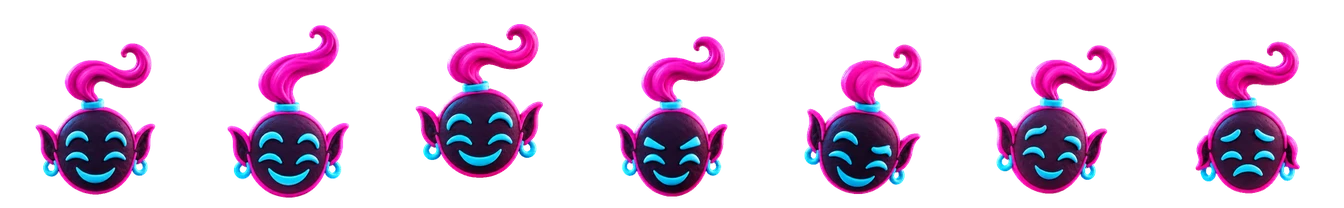
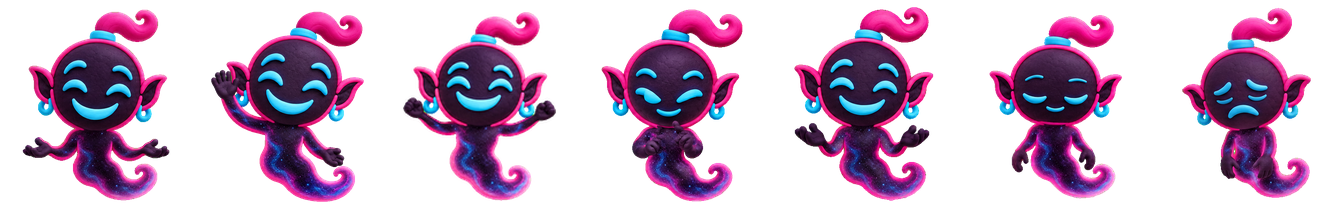
feat(id): the approved whole-body Genie, the letter's label on one line, a steady phone layout
The owner's two layout notes and the Genie swap, as one delta on the screens.

- Genie is the approved clay figure, whole body, in the same seven cells
  (192 x 208). The head-only strip is gone; no other Genie file is in the folder.
  The figure is drawn a little larger than Omni's head and in front of the card,
  so the tip of its tail ends over the card's edge; the bubble uses the empty
  sides of its cell.
- At 1440 the label over the WhatsApp message wrapped beside the code to scan.
  Beside the code it is now set a touch tighter and stays on one line; under
  480 px the letter goes under the code instead of squeezing beside it.
- At 390 the logo and the card were far apart in the short states, and the card
  moved up and down from one state to the next. On a phone the host and the card
  now start one short, fixed step under the logo; the step gives way first when a
  tall card needs the room. A wide window still centres them.
- Tests: the strip's digest and size and the folder's contents; in a browser, the
  label's single line at five widths, the fixed step across states, and the whole
  Genie in front of the card.

diff --git a/apps/id/test/pages.test.ts b/apps/id/test/pages.test.ts
@@ -21,7 +21,7 @@ import { Miniflare } from 'miniflare';
 import { createHash, randomUUID } from 'node:crypto';
 import { createServer } from 'node:net';
 import { existsSync } from 'node:fs';
-import { mkdir, mkdtemp, readFile, rm, writeFile } from 'node:fs/promises';
+import { mkdir, mkdtemp, readFile, readdir, rm, writeFile } from 'node:fs/promises';
 import { resolve } from 'node:path';
 import { clientSeedSQL } from '../scripts/client-seed';
 
@@ -83,6 +83,27 @@ describe('pages: files', () => {
   });
 
   // Without this the browser layers below skip in CI and nobody notices.
+  test('Genie is the approved whole figure, and no head-only Genie file is left', async () => {
+    const strip = await readFile(resolve('pages/assets/genie-faces.webp'));
[1 lines of base64/hex data omitted]
+    expect(createHash('sha256').update(strip).digest('hex')).toBe(approved);
+    // Seven cells of 192 x 208 side by side; a lossless WebP holds its size in its header.
+    expect(strip.toString('latin1', 0, 4) + strip.toString('latin1', 8, 16)).toBe('RIFFWEBPVP8L');
+    const bits = strip.readUInt32LE(21);
+    expect([(bits & 0x3fff) + 1, ((bits >> 14) & 0x3fff) + 1]).toEqual([7 * 192, 208]);
+    // The folder holds this one Genie file and nothing else that could be an older one.
+    expect((await readdir(resolve('pages/assets'))).sort()).toEqual([
+      'LICENSES.md', 'OFL-DMSans.txt', 'OFL-Manrope.txt', 'dm-sans-latin.woff2', 'genie-faces.webp', 'icon.png',
+      'manrope-latin.woff2', 'omni-faces.webp', 'wordmark.webp',
+    ]);
+    const notes = await read('assets/LICENSES.md');
+    expect(notes).toContain(`SHA-256 \`${approved}\``);
+    expect(notes).toContain('The earlier head-only Genie is retired and no file of it is left here.');
+    const css = await read('id.css');
+    expect(css).toContain('[data-who="genie"] .pet,[data-who="omni"] .pal{aspect-ratio:192/208;background-image:url("/assets/genie-faces.webp")}');
+    expect([...css.matchAll(/genie[\w-]*\.(?:webp|png|svg)/g)].map(match => match[0])).toEqual(['genie-faces.webp']);
+  });
+
   test('the CI job runs the browser tests', async () => {
     const workflow = await readFile(resolve('..', '..', '.github', 'workflows', 'ci.yml'), 'utf8');
     const job = workflow.slice(workflow.indexOf('\n  id:\n'), workflow.indexOf('\n  privacy:\n'));
@@ -1168,6 +1189,65 @@ describe('pages: every state', () => {
       await context.close();
     }
   }, 600000);
+
+  test('layout: the letter\'s label on one line beside the code, a fixed step under the logo on a phone, the whole Genie in front of the card', async ({ skip }) => {
+    if (!(await chromium())) return skip();
+    const { origin } = await world();
+    const named = (name: string) => scenes.find(scene => scene.name === name)!;
+    const host = `(() => {
+      const logo = document.querySelector('.brand').getBoundingClientRect(), scene = document.querySelector('#scene');
+      const pet = document.querySelector('#pet').getBoundingClientRect(), card = document.querySelector('#card').getBoundingClientRect();
+      const front = document.elementFromPoint(pet.left + pet.width / 2, card.top + 2);
+      return {
+        step: scene.getBoundingClientRect().top - logo.bottom, who: scene.dataset.who, art: getComputedStyle(document.querySelector('#pet')).backgroundImage,
+        pet: [Math.round(pet.width), Math.round(pet.height)], over: pet.bottom - card.top, clear: pet.top >= logo.bottom, front: front ? front.id : '',
+      };
+    })()`;
+    // A desk browser: the code to scan with the letter beside it, the label on one line; in
+    // a window too narrow for the pair, the letter goes under the code.
+    // No motion here: the host's breathing would change the sizes measured.
+    const desk = await browser.newContext({ viewport: { width: 1440, height: 900 }, reducedMotion: 'reduce' });
+    const waiting = await stage(desk, origin, named('sign-in-20-whatsapp-waiting-for-the-message'));
+    for (const [width, beside] of [[1440, true], [700, true], [480, true], [479, false], [390, false]] as const) {
+      await waiting.page.setViewportSize({ width, height: 900 });
+      const letter = await waiting.page.evaluate(`(() => {
+        const label = document.querySelector('.letter-label'), range = document.createRange(); range.selectNodeContents(label);
+        const code = document.querySelector('#qr').getBoundingClientRect(), box = document.querySelector('.letter').getBoundingClientRect();
+        return {
+          lines: new Set([...range.getClientRects()].map(rect => Math.round(rect.top))).size, shown: code.width >= 148,
+          beside: box.left >= code.right && box.top < code.bottom && box.bottom > code.top, under: box.top >= code.bottom,
+        };
+      })()`);
+      expect(letter, `the letter at ${width}`).toEqual({ lines: 1, shown: true, beside, under: !beside });
+    }
+    await waiting.page.close();
+    // There Genie is centred with the card; it is the whole figure, in front of the card.
+    const wide = await stage(desk, origin, named('sign-in-02-passkey'));
+    const centred = await wide.page.evaluate(host) as any;
+    expect([centred.who, centred.pet, centred.front, centred.clear]).toEqual(['genie', [150, 163], 'pet', true]);
+    expect(centred.art).toContain('/assets/genie-faces.webp');
+    expect(centred.step).toBeGreaterThan(44);
+    await wide.page.close();
+    await desk.close();
+    // A phone: the host and the card start the same short step under the logo in every
+    // state that fits the screen, and Genie's tail ends over the card's edge, in front.
+    const phone = await browser.newContext({ viewport: { width: 390, height: 844 }, hasTouch: true, isMobile: true, reducedMotion: 'reduce' });
+    const steps: number[] = [];
+    for (const name of ['sign-in-01-loading', 'sign-in-02-passkey', 'sign-in-06-passkey-failed', 'consent-02-ask']) {
+      const { page } = await stage(phone, origin, named(name), true);
+      const place = await page.evaluate(host) as any;
+      expect([place.who, place.pet, place.front, place.clear], name).toEqual(['genie', [132, 143], 'pet', true]);
+      expect(place.art, name).toContain('/assets/genie-faces.webp');
+      expect(place.over, name).toBeGreaterThan(0);
+      expect(place.over, name).toBeLessThanOrEqual(14);
+      expect(place.step, name).toBeGreaterThanOrEqual(12);
+      expect(place.step, name).toBeLessThanOrEqual(44);
+      steps.push(place.step);
+      await page.close();
+    }
+    for (const step of steps) expect(step).toBeCloseTo(steps[0], 1);
+    await phone.close();
+  }, 120000);
 
   test('a framed page shows nothing and calls nothing', async ({ skip }) => {
     if (!(await chromium())) return skip();

diff --git a/apps/id/pages/id.css b/apps/id/pages/id.css
@@ -57,20 +57,29 @@ button,input{font:inherit;color:inherit}
 .node-pink{fill:var(--node-pink)}
 
 .shell{position:relative;display:flex;flex-direction:column;align-items:center;min-height:100vh;min-height:100dvh;padding:max(22px,env(safe-area-inset-top)) max(16px,env(safe-area-inset-right)) max(18px,env(safe-area-inset-bottom)) max(16px,env(safe-area-inset-left))}
+/* On a phone the host and the card start a short, fixed step under the logo, so they stay
+   put from one state to the next; the step gives way first when a tall card needs the room.
+   A wide window centres them instead (below). */
 .column{flex:1;display:flex;flex-direction:column;width:min(100%,416px)}
-.middle{position:relative;margin-block:auto;padding-block:10px 5vh}
-.brand{display:flex;justify-content:center}
+.column::before{content:"";flex:0 1 clamp(12px,5vh,44px)}
+.middle{position:relative;margin-block:0 auto;padding-block:10px 5vh}
+.brand{order:-1;display:flex;justify-content:center}
 .brand img{width:138px}
 
 /* The hosts. Genie says what is going on; Omni takes over for WhatsApp. One sheet each, seven
-   faces in a row: calm, glad, delighted, set, wink, serene, sorry. The face follows the mood
-   on the scene; the host sits on the card's top edge, so the two read as one thing. */
+   poses in a row: calm, glad, delighted, set, beaming, serene, sorry. The pose follows the
+   mood on the scene; the host sits on the card's top edge, so the two read as one thing.
+   Genie is the whole figure, so it is drawn a little larger than Omni's head and in front
+   of the card: the tip of its tail ends over the card's edge. Its cell has empty sides,
+   which the bubble may use. */
 .host{position:relative;z-index:1;display:grid;grid-template-columns:auto minmax(0,1fr);align-items:end;gap:8px;min-height:118px;margin:0 2px -12px;padding-left:4px}
 .pet-spot{position:relative;display:grid;place-items:center}
 .pet-spot::before{content:"";position:absolute;inset:-18% -30% 0;border-radius:50%;background:radial-gradient(closest-side,var(--spot),transparent);pointer-events:none}
 .pet,.pal{background:0 0/700% 100% no-repeat}
 .pet{position:relative;z-index:1;width:112px;aspect-ratio:192/208;transform-origin:50% 100%}
 [data-who="genie"] .pet,[data-who="omni"] .pal{aspect-ratio:192/208;background-image:url("/assets/genie-faces.webp")}
+[data-who="genie"] .host{z-index:2}
+[data-who="genie"] .pet{width:132px;margin-inline:-10px}
 [data-who="omni"] .pet,[data-who="genie"] .pal{aspect-ratio:192/192;background-image:url("/assets/omni-faces.webp")}
 [data-mood="wave"] .pet{background-position-x:16.6667%}
 [data-mood="jump"] .pet,[data-mood="jump"] .pal{background-position-x:33.3333%}
@@ -124,7 +133,11 @@ h1:focus-visible{outline:0}
 
 /* WhatsApp: the message that is ready to send, the code to scan on a desk, and the steps. */
 .proof{display:grid;gap:14px}
-.proof.with-qr{grid-template-columns:auto minmax(0,1fr);align-items:center}
+.proof.with-qr{grid-template-columns:auto minmax(0,1fr);align-items:center;gap:12px}
+/* Beside the QR code the letter is narrow: its label is set a touch tighter so it stays on
+   one line. Under 480 px the letter goes under the code instead. */
+.proof.with-qr .letter{padding-inline:12px}
+.proof.with-qr .letter-label{font-size:.64rem;letter-spacing:.06em}
 .qr{width:148px;height:148px;padding:10px;border-radius:16px;background:var(--qr-light);border:1px solid var(--line-2);box-shadow:0 1px 0 rgba(91,59,34,.06)}
 .qr svg{display:block;width:100%;height:100%;shape-rendering:crispEdges}
 .qr-dark{fill:var(--qr-dark)}
@@ -160,23 +173,29 @@ noscript p{margin-top:16px;color:var(--muted)}
   .card{padding:24px 16px 16px;border-radius:22px}
   .host{gap:4px;margin-inline:0;padding-left:0;min-height:100px}
   .pet{width:92px}
+  [data-who="genie"] .pet{width:108px}
   .bubble{padding:10px 13px;font-size:.88rem}
   .brand img{width:124px}
   .button{padding-inline:10px;gap:8px;font-size:.94rem}
   .button svg{width:20px;height:20px}
   .link{font-size:.88rem;padding-inline:4px}
-  .proof.with-qr{grid-template-columns:minmax(0,1fr);justify-items:center}
-  .proof.with-qr .letter{justify-self:stretch}
   .letter-text strong{font-size:1.5rem}
+}
+@media (max-width:479px){
+  .proof.with-qr{grid-template-columns:minmax(0,1fr);justify-items:center;gap:14px}
+  .proof.with-qr .letter{justify-self:stretch;padding-inline:16px}
+  .proof.with-qr .letter-label{font-size:.68rem;letter-spacing:.14em}
 }
 /* Room to breathe: the same column, centred on the stage. */
 @media (min-width:700px) and (min-height:640px){
   .shell{padding-block:34px 26px}
   .column{width:468px}
-  .middle{padding-bottom:7vh}
+  .column::before{content:none}
+  .middle{margin-block:auto;padding-bottom:7vh}
   .brand img{width:156px}
   .host{min-height:136px;gap:12px;padding-left:16px;margin-bottom:-14px}
   .pet{width:128px}
+  [data-who="genie"] .pet{width:150px}
   .bubble{max-width:31ch;font-size:1rem;padding:14px 18px;margin-bottom:28px}
   .card{padding:40px 36px 32px;border-radius:28px}
   h1{font-size:2.1rem}

diff --git a/apps/id/pages/assets/LICENSES.md b/apps/id/pages/assets/LICENSES.md
@@ -6,11 +6,15 @@ loaded from another origin.
 - `wordmark.webp`: the Automagik wordmark, copied unchanged from
   `apps/bots-dsh/src/client/art/wordmark.webp`. Apache-2.0, Namastex Labs and the Automagik
   contributors.
-- `genie-faces.webp` and `omni-faces.webp`: the faces of Genie and Omni, the two hosts of
-  these pages. Copied unchanged from `apps/bots-dsh/src/client/art/genie-expressions.webp`
-  and `apps/bots-dsh/src/client/art/omni-expressions.webp`: seven faces side by side in each
-  (Genie's cells are 192 x 208, Omni's 192 x 192). The pages show one cell at a time and
-  never redraw them. Apache-2.0, Namastex Labs and the Automagik contributors.
+- `genie-faces.webp` and `omni-faces.webp`: Genie and Omni, the two hosts of these pages.
+  Genie is the approved clay figure, whole body, in seven poses; Omni is seven faces. Copied
+  unchanged from `apps/bots-dsh/src/client/art/genie-expressions.webp` (the approved strip,
[1 lines of base64/hex data omitted]
+  `apps/bots-dsh/dev/art/genie-approved-v5`) and
+  `apps/bots-dsh/src/client/art/omni-expressions.webp`: seven cells side by side in each
+  (Genie's are 192 x 208, Omni's 192 x 192). The pages show one cell at a time and never
+  redraw them. The earlier head-only Genie is retired and no file of it is left here.
+  Apache-2.0, Namastex Labs and the Automagik contributors.
 - `icon.png`: the Automagik app icon, `apps/desktop/assets/icon.png` scaled to 192 x 192.
   Apache-2.0.
 - `manrope-latin.woff2`: Manrope, Copyright 2018 The Manrope Project Authors. SIL Open Font
